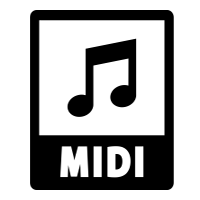
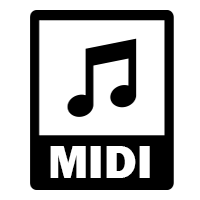
Add files via upload

Changed region(s): [[0.24, 0.72, 0.75, 0.9]]

diff --git a/css/2 database.css b/css/2 database.css
@@ -123,13 +123,15 @@ h1 {
     width: 33.3333%;
     height: 48px;
     display: flex;
+    align-items: center;
     justify-content: center;
     margin: 0% 6%;
 }
 #iconfit {
-    min-width: 100%;
+    max-width: 90%;
     max-height: 100%;
     flex-shrink: 0;
+    flex: 1;
 }
 #hidden {
     opacity: 0;
